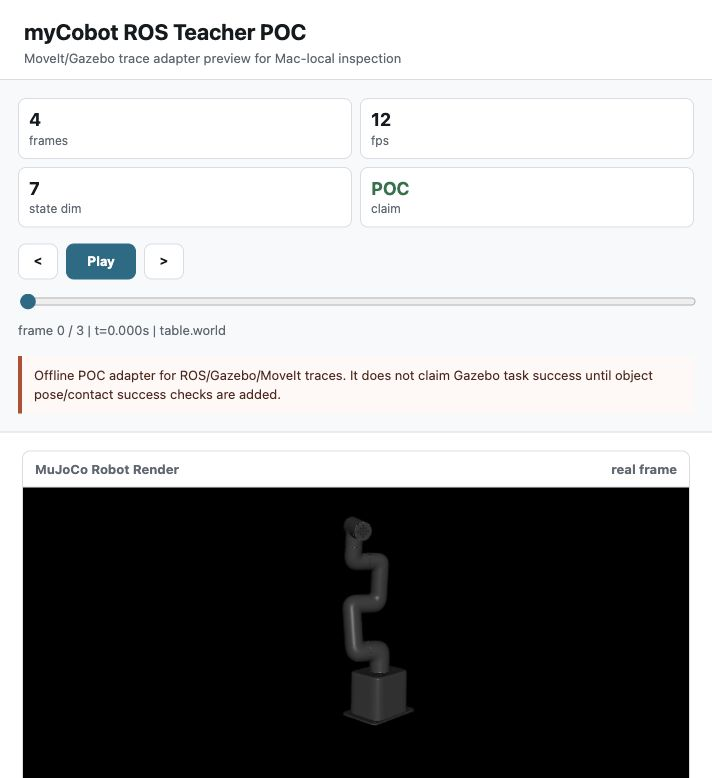
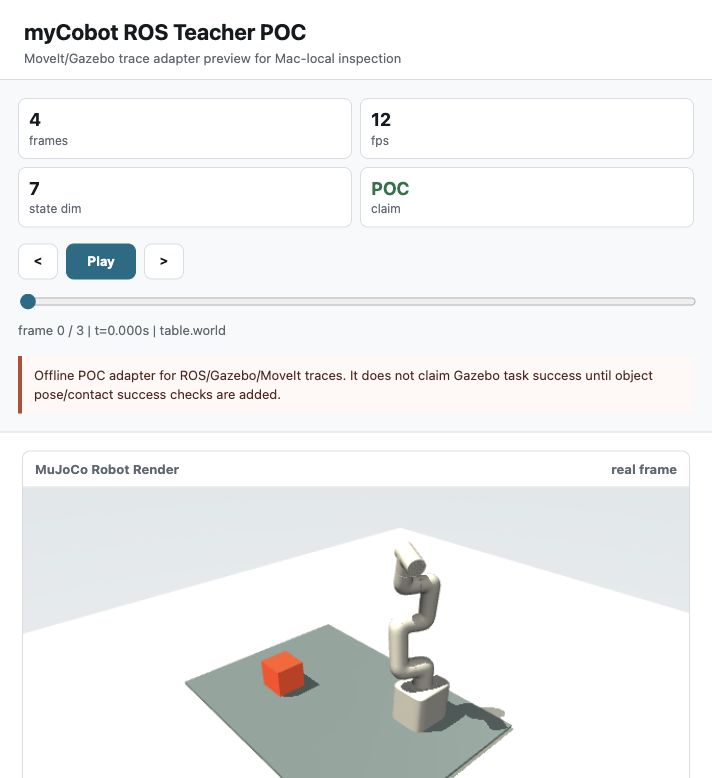
Add nexus-style myCobot render scene

diff --git a/scripts/render_mycobot_mujoco_teacher_poc.py b/scripts/render_mycobot_mujoco_teacher_poc.py
@@ -6,6 +6,7 @@ import json
 import math
 import os
 import struct
+import xml.etree.ElementTree as ET
 from dataclasses import asdict, dataclass
 from pathlib import Path
 from typing import Any
@@ -36,6 +37,7 @@ class RenderReport:
     root: str
     asset_root: str
     model_path: str
+    scene_path: str
     frames: int
     width: int
     height: int
@@ -92,6 +94,7 @@ def render_mycobot_mujoco_teacher_poc(
     blocker_path = render_dir / "render_blocker.md"
     report_path = render_dir / "render_report.json"
     model_path = asset_root / MODEL_RELATIVE_PATH
+    scene_path = render_dir / "mycobot_nexus_scene.xml"
     attempts: list[RenderAttempt] = []
 
     try:
@@ -103,8 +106,9 @@ def render_mycobot_mujoco_teacher_poc(
                 f"missing myCobot MuJoCo model: {model_path}. "
                 "Clone https://github.com/elephantrobotics/mycobot_mujoco and pass --asset-root."
             )
+        _write_nexus_scene_model(model_path=model_path, scene_path=scene_path)
         frame_count = _render_frames(
-            model_path=model_path,
+            model_path=scene_path,
             frames=frames,
             output_dir=output_dir,
             width=width,
@@ -125,6 +129,7 @@ def render_mycobot_mujoco_teacher_poc(
         root=str(root),
         asset_root=str(asset_root),
         model_path=str(model_path),
+        scene_path=str(scene_path),
         frames=frame_count,
         width=width,
         height=height,
@@ -149,6 +154,147 @@ def _read_frames(path: Path) -> list[dict[str, Any]]:
     return frames
 
 
+def _write_nexus_scene_model(*, model_path: Path, scene_path: Path) -> None:
+    tree = ET.parse(model_path)
+    root = tree.getroot()
+
+    compiler = root.find("compiler")
+    if compiler is None:
+        compiler = ET.Element("compiler")
+        root.insert(0, compiler)
+    compiler.set("meshdir", str((model_path.parent / "../meshes_mujoco").resolve()))
+
+    asset = root.find("asset")
+    if asset is None:
+        asset = ET.Element("asset")
+        worldbody_index = _child_index(root, "worldbody")
+        root.insert(worldbody_index if worldbody_index >= 0 else len(root), asset)
+    ET.SubElement(
+        asset,
+        "texture",
+        {
+            "name": "nexus_skybox",
+            "type": "skybox",
+            "builtin": "gradient",
+            "rgb1": "0.78 0.82 0.86",
+            "rgb2": "0.96 0.97 0.96",
+            "width": "256",
+            "height": "256",
+        },
+    )
+    _add_material(asset, "nexus_floor", "0.78 0.80 0.77 1", specular="0.12")
+    _add_material(asset, "nexus_mat", "0.37 0.43 0.45 1", specular="0.08")
+    _add_material(asset, "task_cube", "0.92 0.24 0.15 1", specular="0.22")
+
+    visual = root.find("visual")
+    if visual is None:
+        visual = ET.Element("visual")
+        worldbody_index = _child_index(root, "worldbody")
+        root.insert(worldbody_index if worldbody_index >= 0 else len(root), visual)
+    ET.SubElement(
+        visual,
+        "headlight",
+        {
+            "ambient": "0.36 0.36 0.34",
+            "diffuse": "0.76 0.74 0.68",
+            "specular": "0.12 0.12 0.12",
+        },
+    )
+    ET.SubElement(visual, "map", {"znear": "0.01", "zfar": "10"})
+
+    worldbody = root.find("worldbody")
+    if worldbody is None:
+        raise ValueError(f"missing worldbody in MuJoCo model: {model_path}")
+
+    scene_nodes = [
+        ET.Element(
+            "light",
+            {
+                "name": "nexus_key_light",
+                "pos": "-0.55 -0.75 1.35",
+                "dir": "0.35 0.45 -1",
+                "directional": "true",
+                "diffuse": "0.88 0.84 0.72",
+            },
+        ),
+        ET.Element(
+            "light",
+            {
+                "name": "nexus_fill_light",
+                "pos": "0.65 0.35 0.95",
+                "diffuse": "0.28 0.32 0.36",
+            },
+        ),
+        ET.Element(
+            "geom",
+            {
+                "name": "nexus_floor",
+                "type": "plane",
+                "pos": "0 0 -0.006",
+                "size": "1.2 1.2 0.01",
+                "material": "nexus_floor",
+                "contype": "0",
+                "conaffinity": "0",
+            },
+        ),
+        ET.Element(
+            "geom",
+            {
+                "name": "nexus_work_mat",
+                "type": "box",
+                "pos": "-0.18 -0.12 0.004",
+                "size": "0.36 0.26 0.004",
+                "material": "nexus_mat",
+                "contype": "0",
+                "conaffinity": "0",
+            },
+        ),
+        ET.Element(
+            "geom",
+            {
+                "name": "task_cube",
+                "type": "box",
+                "pos": "-0.34 -0.18 0.044",
+                "size": "0.04 0.04 0.04",
+                "material": "task_cube",
+                "contype": "0",
+                "conaffinity": "0",
+            },
+        ),
+    ]
+    for node in reversed(scene_nodes):
+        worldbody.insert(0, node)
+
+    scene_path.parent.mkdir(parents=True, exist_ok=True)
+    tree.write(scene_path, encoding="utf-8", xml_declaration=True)
+
+
+def _add_material(
+    asset: ET.Element,
+    name: str,
+    rgba: str,
+    *,
+    specular: str,
+) -> None:
+    ET.SubElement(
+        asset,
+        "material",
+        {
+            "name": name,
+            "rgba": rgba,
+            "specular": specular,
+            "shininess": "0.28",
+        },
+    )
+
+
+def _child_index(root: ET.Element, tag: str) -> int:
+    for index, child in enumerate(list(root)):
+        if child.tag == tag:
+            return index
+    return -1
+
+
 def _render_frames(
     *,
     model_path: Path,
@@ -165,10 +311,10 @@ def _render_frames(
     try:
         camera = mujoco.MjvCamera()
         camera.type = mujoco.mjtCamera.mjCAMERA_FREE
-        camera.lookat[:] = [-0.08, 0.0, 0.08]
-        camera.distance = 1.15
-        camera.azimuth = 135.0
-        camera.elevation = -15.0
+        camera.lookat[:] = [-0.13, -0.10, 0.11]
+        camera.distance = 1.12
+        camera.azimuth = 138.0
+        camera.elevation = -34.0
         qpos_indices = _joint_qpos_indices(mujoco, model)
         for frame in frames:
             values = _finite_vector(frame.get("observation_state", []))

diff --git a/docs/research/2026_06_23/mycobot_ros_teacher_dataset_poc.md b/docs/research/2026_06_23/mycobot_ros_teacher_dataset_poc.md
@@ -83,7 +83,8 @@ The script writes:
 - `images/top/*.ppm` and `images/wrist/*.ppm`: deterministic placeholder images
   so downstream viewers/converters can test image paths without ROS.
 - `render/scene/*.bmp`: optional real myCobot MuJoCo robot-arm render frames
-  generated from `elephantrobotics/mycobot_mujoco` assets.
+  generated from `elephantrobotics/mycobot_mujoco` assets in a nexus-style
+  stage with a work mat, lighting, skybox, and task cube.
 - `render/render_report.json` and `render/render_blocker.md`: renderer status
   and dependency/asset blocker details.
 - `viewer.html`: standalone local UI with playback controls, real MuJoCo render